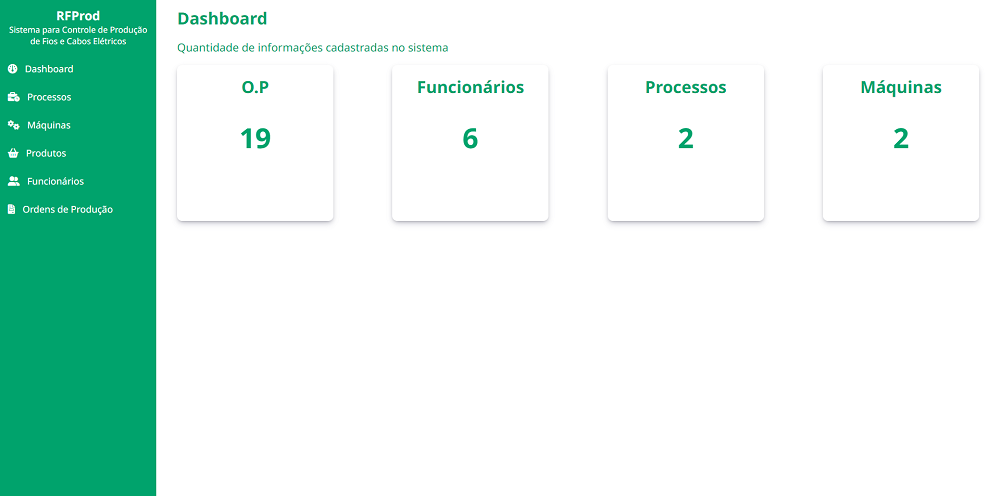
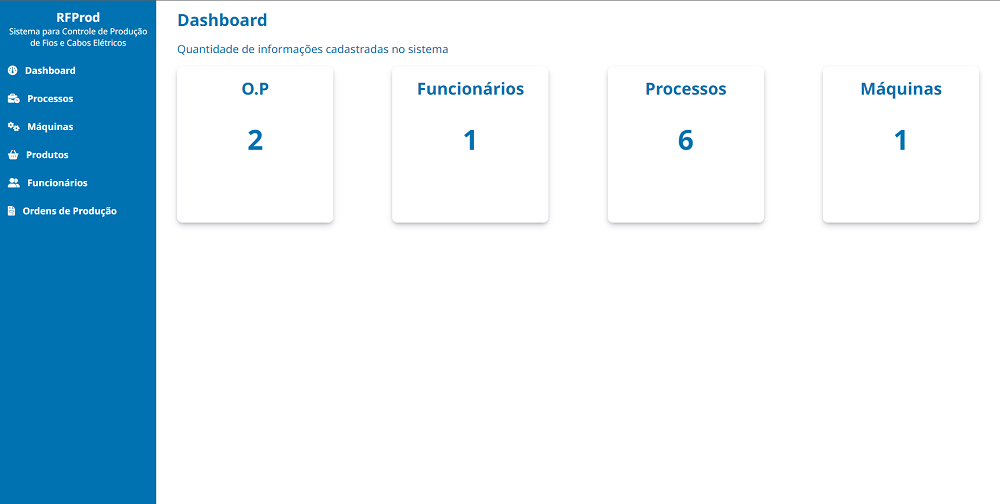
Mudança da paleta de cores e correções de responsividade

diff --git a/src/main/resources/static/css/style.css b/src/main/resources/static/css/style.css
@@ -14,9 +14,13 @@ body {
     font-family: 'Noto Sans', sans-serif;
 }
 
+a, button {
+	font-weight: 700;
+}
+
 .sidebar {
     width: 300px;
-    background-color: #00A36C;
+    background-color: #0072B2;
     color: #FFF;
     display: flex;
     flex-direction: column;
@@ -44,7 +48,7 @@ body {
 
 #sidebar-menu-options > a:hover {
     background-color: #FFF;
-    color: #00A36C;
+    color: #0072B2;
 }
 
 .content {
@@ -55,12 +59,12 @@ body {
 }
 
 .content > h1 {
-    color: #00A36C;
+    color: #0072B2;
     margin-bottom: 20px;
 }
 
 .content > p {
-	color: #00A36C;
+	color: #0072B2;
 	font-size: 16pt;
 	margin-bottom: 20px;
 }
@@ -72,7 +76,7 @@ body {
 }
 
 .options > a > button {
-    background-color: #00A36C;
+    background-color: #0072B2;
     font-size: 16px;
     color: #FFF;
     border: none;
@@ -97,7 +101,7 @@ body {
 thead { /* thead fixado no topo da tabela */
     position: sticky;
     top: 0;
-    background-color: #00A36C;
+    background-color: #0072B2;
     padding: 5px;
 }
 
@@ -110,7 +114,7 @@ td, th {
     padding-top: 12px;
     padding-bottom: 12px;
     text-align: left;
-    background-color: #04AA6D;
+    background-color: #0072B2;
     color: #FFF;
 }
 
@@ -122,30 +126,30 @@ th > input {
 
 .produtos-button {
 	padding: 5px 10px;
-	background-color: #8C15AB;
+	background-color: #CAE5D4;
     border-radius: 5px;
-    color: #FFF;
+    color: #000;
 }
 
 .apontamento-button {
     padding: 5px 10px;
-    background-color: #0C8DAB;
+    background-color: #A0BDE6;
     border-radius: 5px;
-    color: #FFF;
+    color: #000;
 }
 
 .alterar-button {
     padding: 5px 10px;
-    background-color: #AB9D0C;
+    background-color: #F0E442;
     border-radius: 5px;
-    color: #FFF;
+    color: #000;
 }
 
 .excluir-button {
     padding: 5px 10px;
-    background-color: #AB2203;
+    background-color: #EB865E;
     border-radius: 5px;
-    color: #FFF;
+    color: #000;
 }
 
 /* Novo Processo */
@@ -203,7 +207,7 @@ form input, select {
 .box-title > p {
     font-size: 24pt;
     font-weight: 700;
-    color: #00A36C;
+    color: #0072B2;
     text-align: center;
     padding: 20px 0;
 }
@@ -211,7 +215,7 @@ form input, select {
 .box-value > p {
     font-size: 40pt;
     font-weight: 700;
-    color: #00A36C;
+    color: #0072B2;
     text-align: center;
     padding: 20px 0;
 }
@@ -240,6 +244,7 @@ form input, select {
     .menu-phone {
 		display: block;
         float: right;
+		cursor: pointer;
     }
 
     .sidebar {
@@ -283,9 +288,14 @@ form input, select {
 		width: 100%;
 	}
 
+	.box-title p {
+		font-size: 16pt;
+	}
+
 }
 
 @media only screen and (max-width: 1440px) {
+
 	.box-contents {
 		display: grid;
 		grid-template-columns: 1fr 1fr;
@@ -295,4 +305,35 @@ form input, select {
 	.box {
 		width: 100%;
 	}
+
+}
+
+@media only screen and (max-width: 425px) {
+
+	.content > h1, p{
+		text-align: center;
+	}
+
+	.box-contents {
+		display: block;
+	}
+
+	.box {
+		width: 100%;
+		margin-bottom: 20px;
+	}
+
+	.form-content {
+		display: block;
+	}
+
+
+	.form-content > form {
+		display: block;
+	}
+
+	.form-content > form > p {
+		margin-bottom: 20px;
+	}
+
 }
